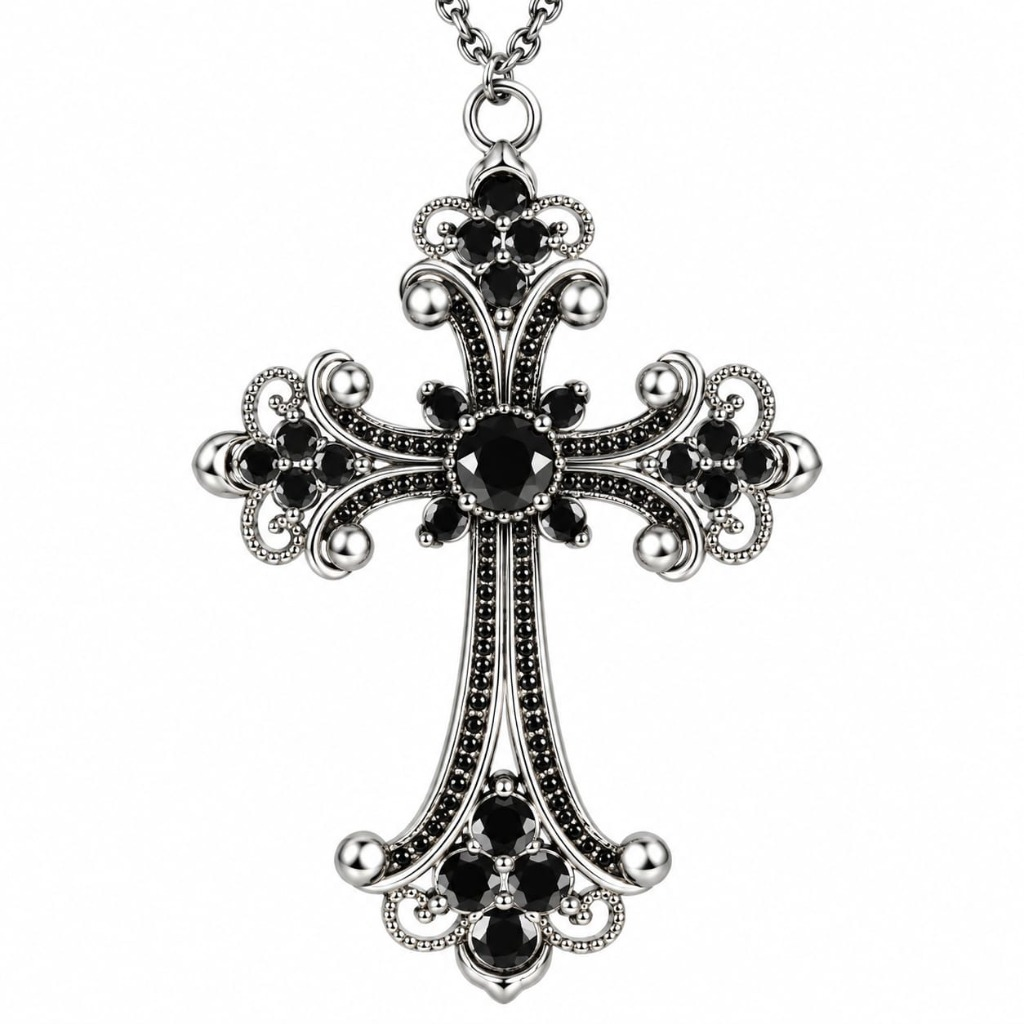
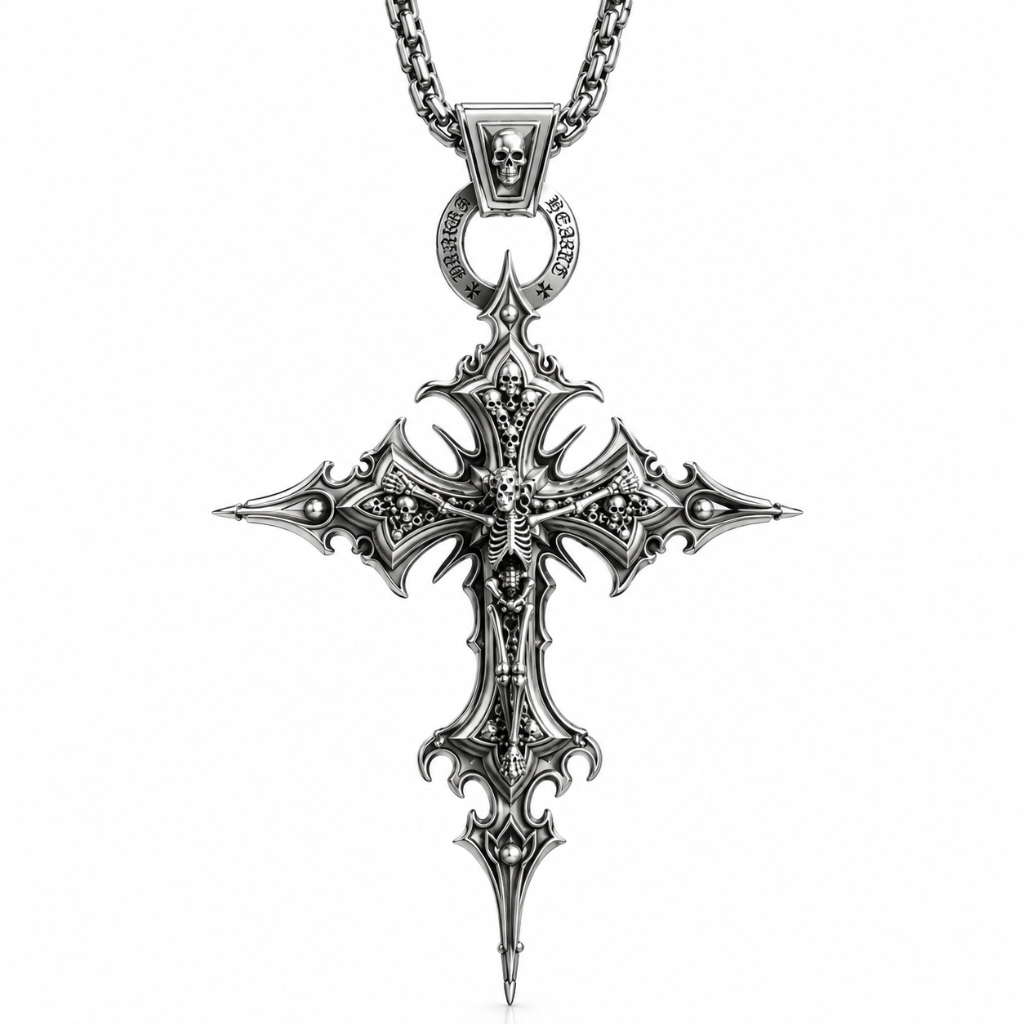
fix(assets): update y2k gothic necklaces category image to new high-res cross pendant

Changed region(s): [[0.1875, 0.0, 0.8125, 1.0]]

diff --git a/src/pages/AdminDashboard.js b/src/pages/AdminDashboard.js
@@ -1322,7 +1322,7 @@ export const AdminDashboard = () => {
                                     const count = products.filter(p => (p.category || "").toLowerCase() === cat.toLowerCase()).length;
                                     let img = `assets/images/category-${cat}.jpg`;
                                     if (cat === "sleek-chains") img = "assets/images/sleek-chains.jpg";
-                                    if (cat === "y2k-gothic-necklaces") img = "assets/images/category-gothic.jpg";
+                                    if (cat === "y2k-gothic-necklaces") img = "assets/images/category-gothic.jpg?v=2";
                                     if (cat === "iced-out-jewels") img = "assets/images/category-iced-out.jpg";
 
                                     return html`

diff --git a/src/pages/Home.js b/src/pages/Home.js
@@ -51,7 +51,7 @@ export const Home = () => {
         },
         {
             title: "Y2K GOTHIC NECKLACES",
-            image: "assets/images/category-gothic.jpg",
+            image: "assets/images/category-gothic.jpg?v=2",
             link: "#/shop?category=y2k-gothic-necklaces"
         },
         {
